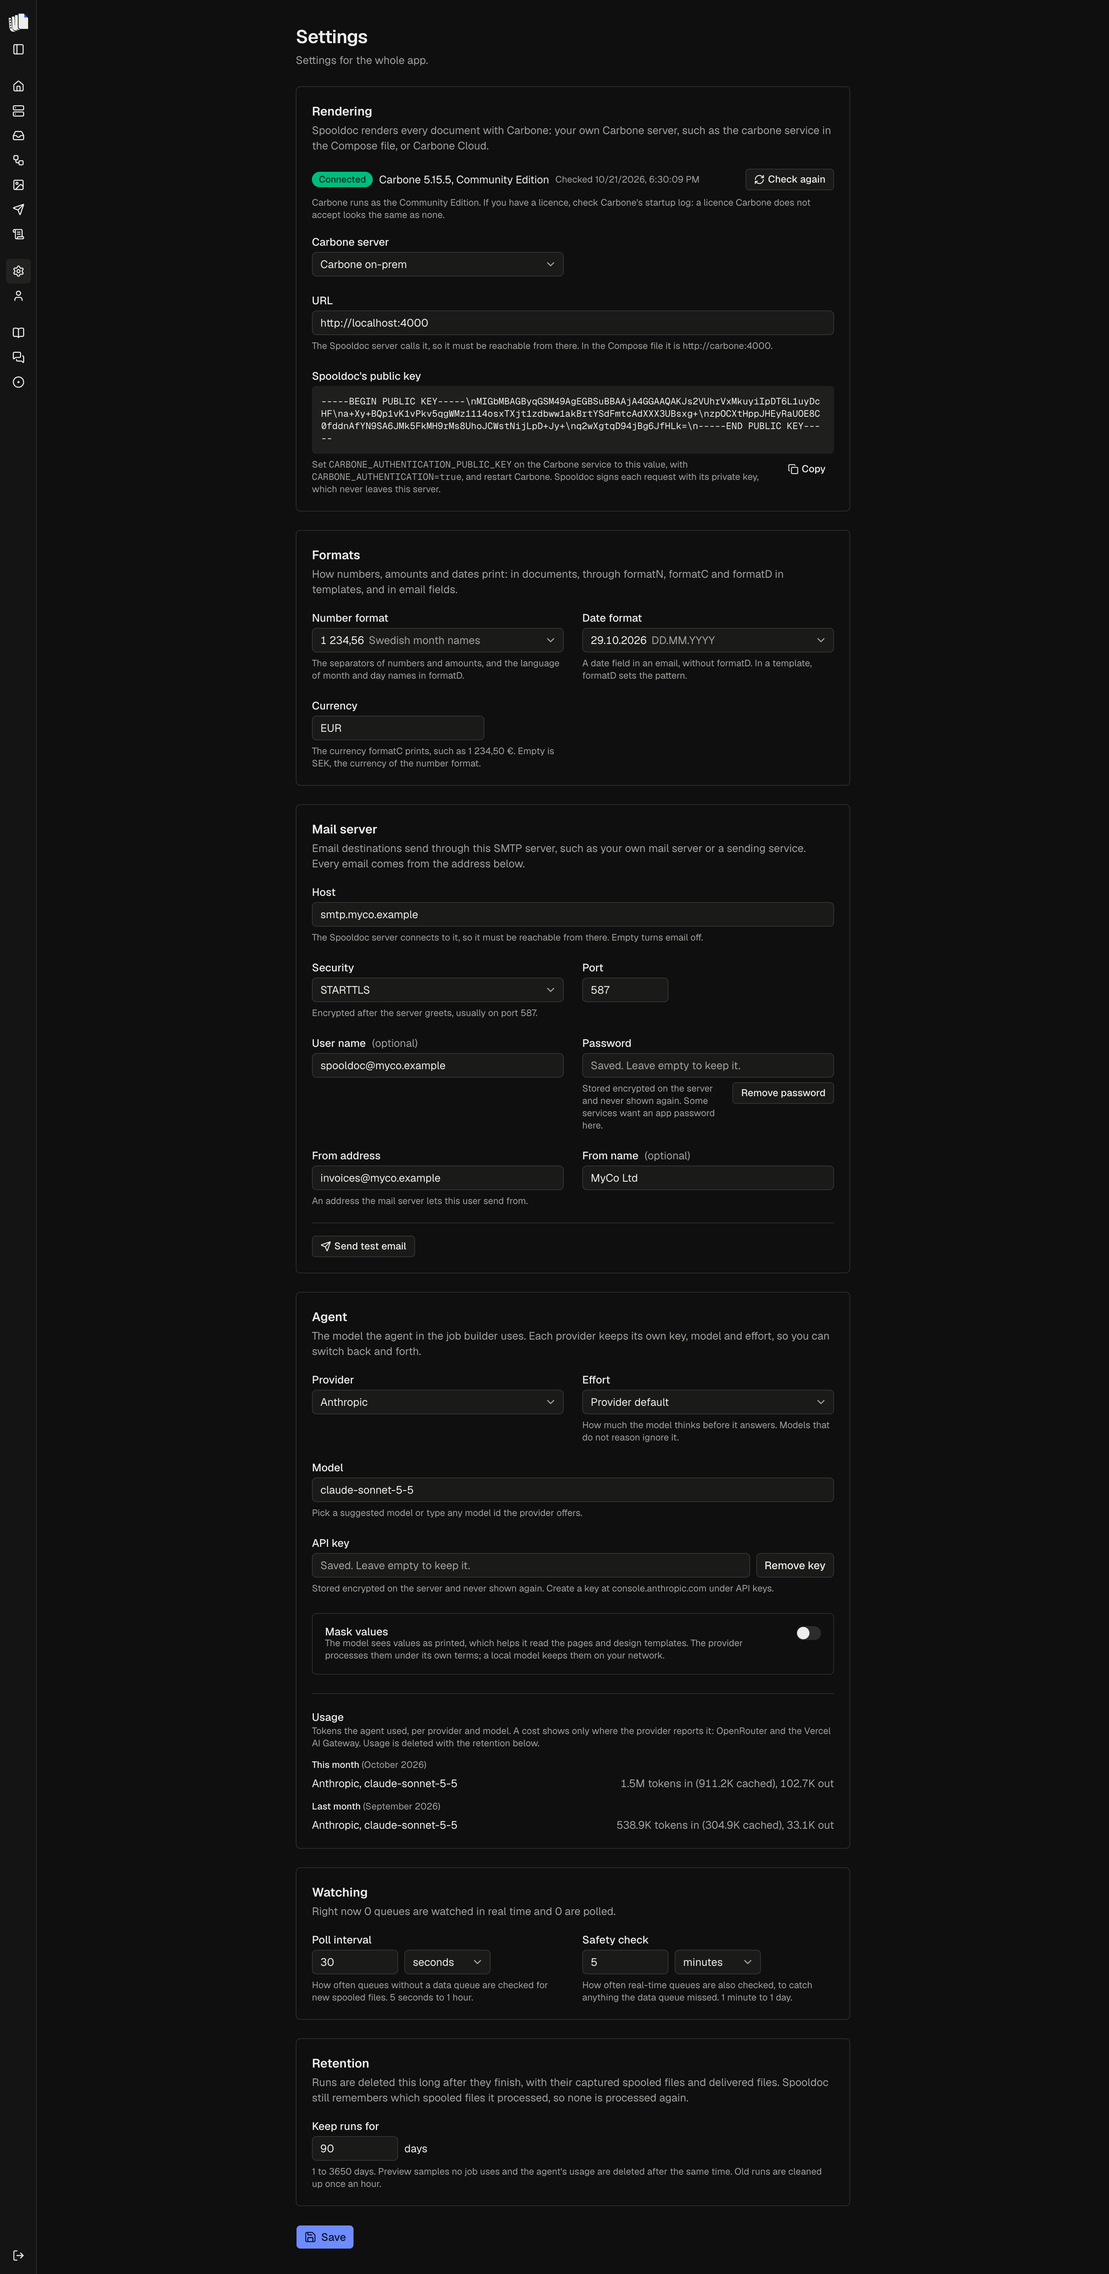
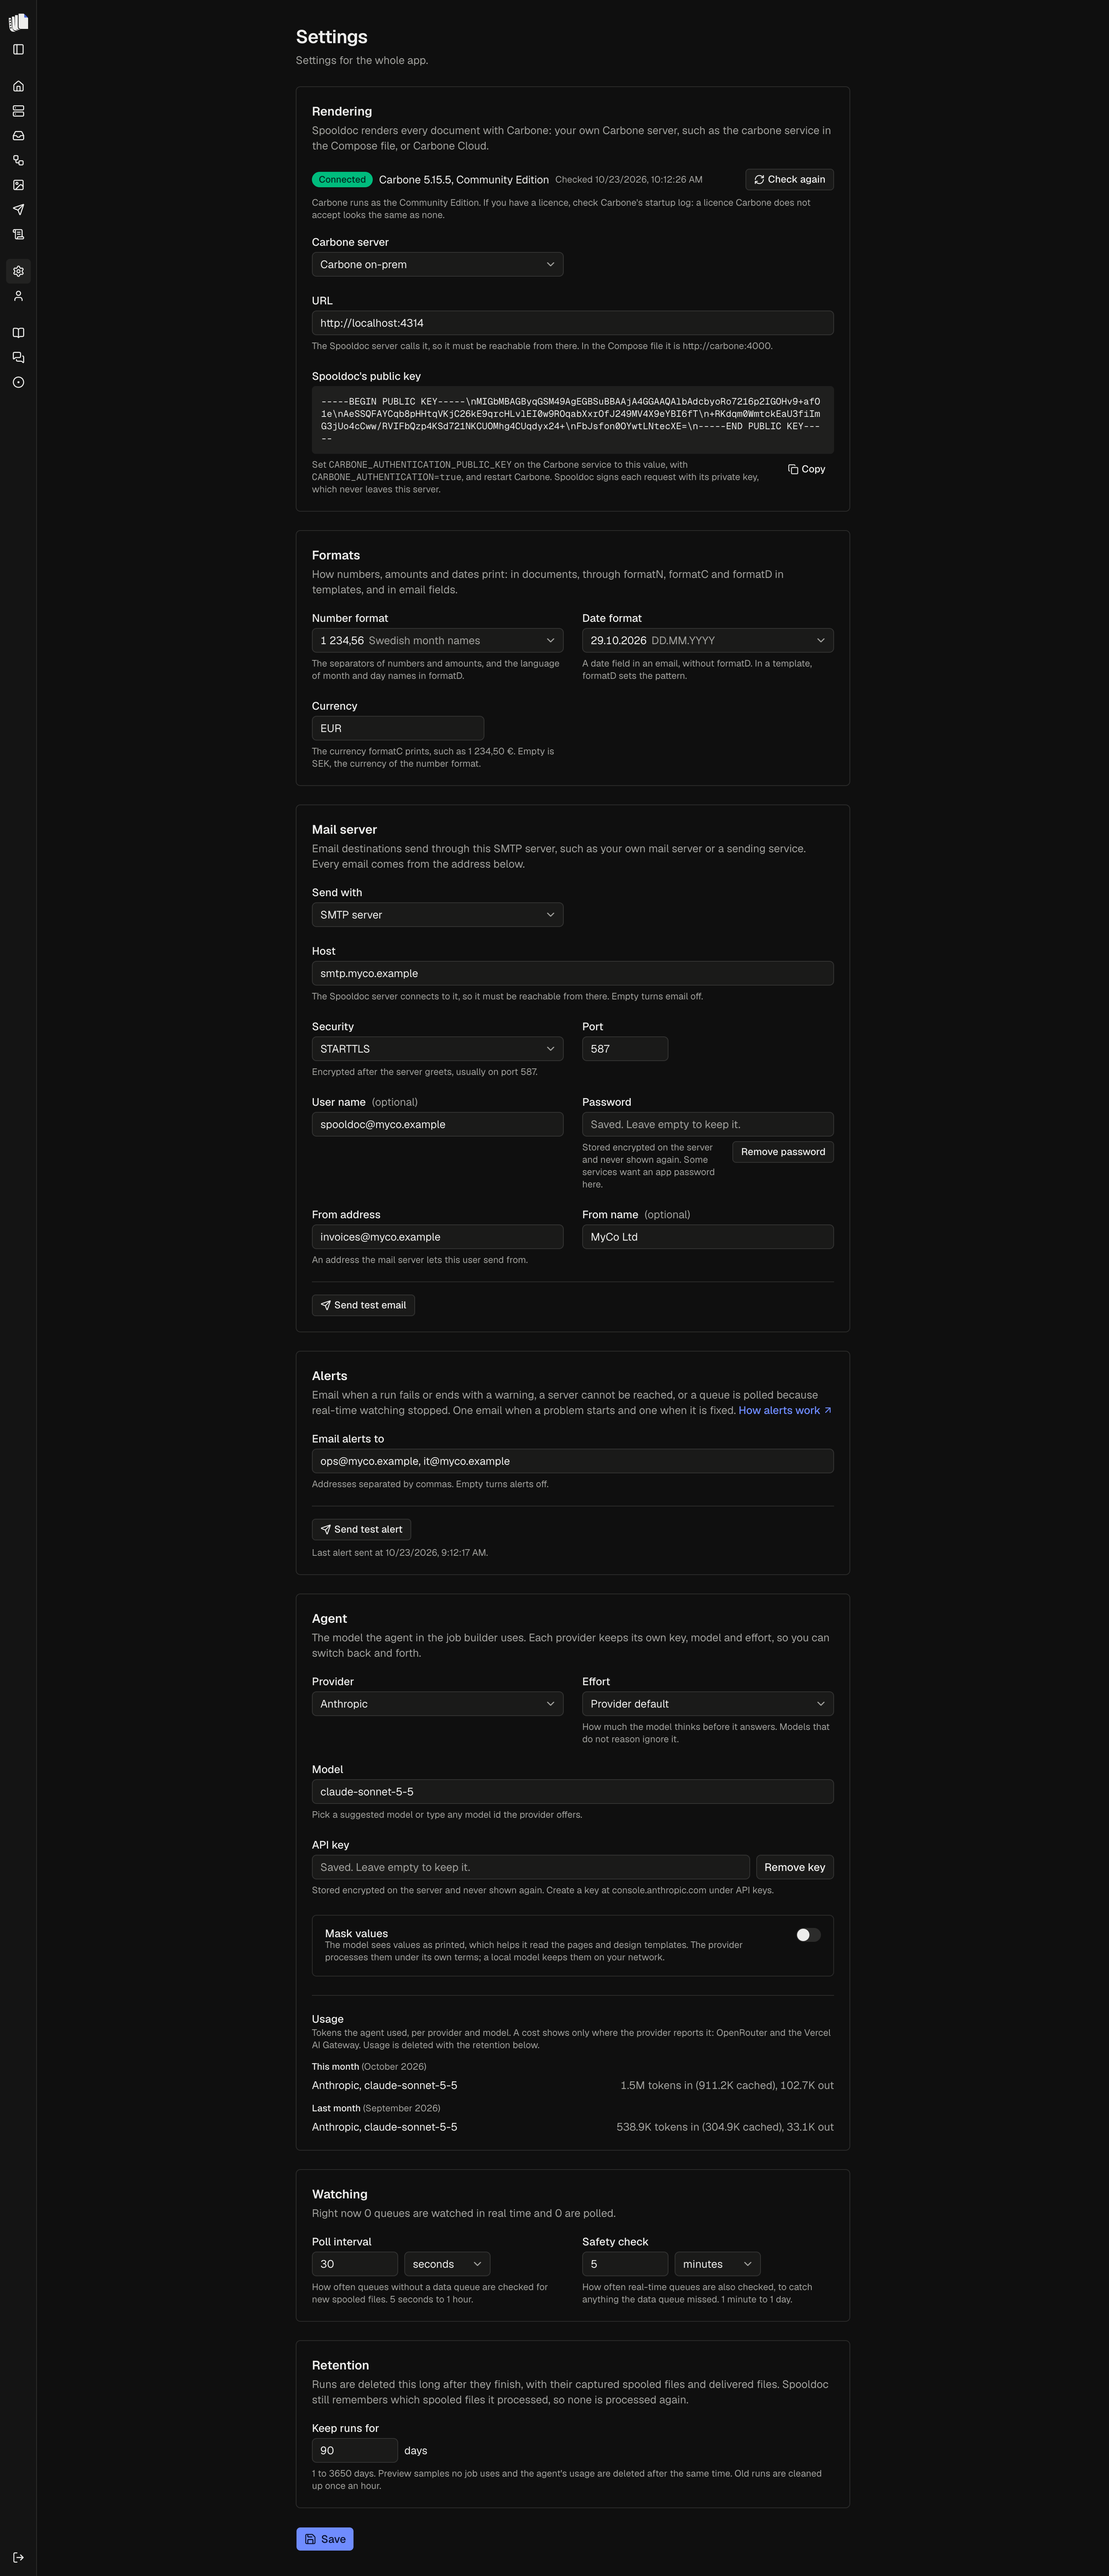
docs: settings screenshot with alerts

diff --git a/docs/configuration.md b/docs/configuration.md
@@ -77,7 +77,7 @@ Under Settings, for the whole app:
 <p align="center">
   <picture>
     <source media="(prefers-color-scheme: dark)" srcset="assets/settings-dark.png">
-    <img src="assets/settings-light.png" alt="The Settings page shows Rendering with Carbone connected, its URL and Spooldoc's public key, Formats set to 1 234,56, 29.10.2026 and EUR, the Mail server with its host, security, port, user name, a saved password and the From address, the Agent with its provider, model, effort and usage, and the Watching and Retention settings." width="900">
+    <img src="assets/settings-light.png" alt="The Settings page shows Rendering with Carbone connected, its URL and Spooldoc's public key, Formats set to 1 234,56, 29.10.2026 and EUR, the Mail server with its host, security, port, user name, a saved password and the From address, Alerts sending to two addresses with the time of the last alert, the Agent with its provider, model, effort and usage, and the Watching and Retention settings." width="900">
   </picture>
 </p>
 
@@ -234,8 +234,9 @@ alert, but a server or queue that has a problem at that moment does.
 Dismissing an item in Needs attention hides it from the Home page and
 does not stop its alert.
 
-Each alert links to the run, job, queue or server it is about when
-`APP_URL` is set, since Spooldoc needs it to write the address. See
+When `APP_URL` is set, each alert links to the page it is about: the
+job's runs in the Job log, the job, the output queue, or the Servers
+page. Spooldoc needs `APP_URL` to write the address. See
 [Environment variables](#environment-variables).
 
 **Send test alert** sends a test email to the saved addresses and says
